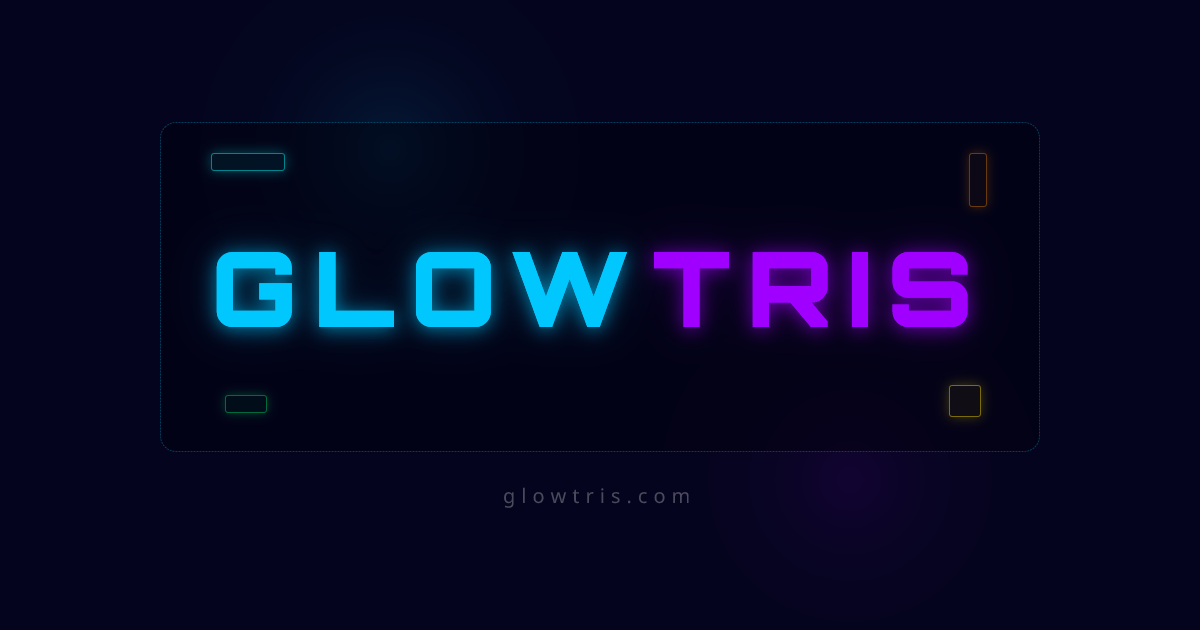
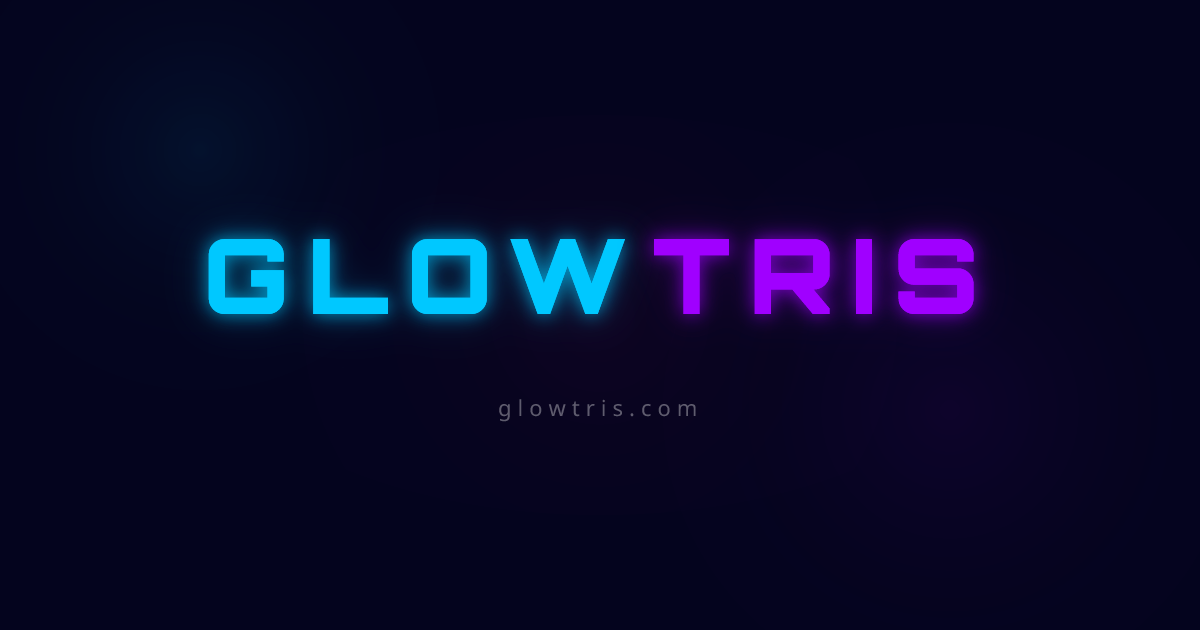
revert: restore OG to refined design (pre-404-style)

diff --git a/api/og.js b/api/og.js
@@ -18,77 +18,48 @@ export default async function handler() {
         background: '#04041e',
         width: '100%', height: '100%',
         display: 'flex',
+        alignItems: 'center',
+        justifyContent: 'center',
+        position: 'relative',
+        overflow: 'hidden',
+      },
+    },
+
+    // Subtle grid
+    h('div', {
+      style: {
+        position: 'absolute', inset: 0,
+        backgroundImage:
+          'linear-gradient(rgba(0,200,255,0.04) 1px, transparent 1px),' +
+          'linear-gradient(90deg, rgba(0,200,255,0.04) 1px, transparent 1px)',
+        backgroundSize: '60px 60px',
+      },
+    }),
+
+    // Nebula glows
+    h('div', { style: { position:'absolute', top:'-100px', left:'-50px', width:'500px', height:'500px', borderRadius:'50%', background:'radial-gradient(circle, rgba(0,200,255,0.07) 0%, transparent 70%)' } }),
+    h('div', { style: { position:'absolute', bottom:'-80px', right:'-50px', width:'600px', height:'600px', borderRadius:'50%', background:'radial-gradient(circle, rgba(160,0,255,0.06) 0%, transparent 70%)' } }),
+    h('div', { style: { position:'absolute', top:'115px', left:'200px', width:'800px', height:'400px', borderRadius:'50%', background:'radial-gradient(circle, rgba(255,0,128,0.04) 0%, transparent 70%)' } }),
+
+    // Content column
+    h('div', {
+      style: {
+        display: 'flex',
         flexDirection: 'column',
         alignItems: 'center',
         justifyContent: 'center',
-        position: 'relative',
-        overflow: 'hidden',
+        gap: 0,
       },
     },
 
-    // Full-page grid
-    h('div', {
-      style: {
-        position: 'absolute', inset: 0,
-        backgroundImage:
-          'linear-gradient(rgba(0,200,255,0.055) 1px, transparent 1px),' +
-          'linear-gradient(90deg, rgba(0,200,255,0.055) 1px, transparent 1px)',
-        backgroundSize: '28px 28px',
-      },
-    }),
-
-    // Ambient glow — cyan top-left
-    h('div', { style: { position:'absolute', top:'-60px', left:'180px', width:'420px', height:'420px', borderRadius:'50%', background:'radial-gradient(circle, rgba(0,200,255,0.11) 0%, transparent 65%)' } }),
-    // Ambient glow — purple bottom-right
-    h('div', { style: { position:'absolute', bottom:'-60px', right:'140px', width:'420px', height:'420px', borderRadius:'50%', background:'radial-gradient(circle, rgba(160,0,255,0.09) 0%, transparent 65%)' } }),
-
-    // Card
-    h('div', {
-      style: {
-        position: 'relative',
-        width: 880,
-        height: 330,
-        display: 'flex',
-        alignItems: 'center',
-        justifyContent: 'center',
-        border: '1px dashed rgba(0,200,255,0.3)',
-        borderRadius: 16,
-        background: 'rgba(0,0,12,0.45)',
-        overflow: 'hidden',
-        marginBottom: 30,
-      },
-    },
-
-    // Grid inside card
-    h('div', {
-      style: {
-        position: 'absolute', inset: 0,
-        backgroundImage:
-          'linear-gradient(rgba(255,255,255,0.035) 1px, transparent 1px),' +
-          'linear-gradient(90deg, rgba(255,255,255,0.035) 1px, transparent 1px)',
-        backgroundSize: '20px 20px',
-      },
-    }),
-
-    // I-piece (cyan) — top left
-    h('div', { style: { position:'absolute', top:30, left:50, width:74, height:18, borderRadius:3, background:'rgba(0,240,240,0.09)', border:'1px solid rgba(0,240,240,0.7)', boxShadow:'0 0 12px rgba(0,240,240,0.45)', opacity:0.75 } }),
-
-    // O-piece (yellow) — bottom right
-    h('div', { style: { position:'absolute', bottom:34, right:58, width:32, height:32, borderRadius:3, background:'rgba(240,210,0,0.08)', border:'1px solid rgba(240,210,0,0.7)', boxShadow:'0 0 12px rgba(240,210,0,0.4)', opacity:0.7 } }),
-
-    // S-piece (green) — bottom left
-    h('div', { style: { position:'absolute', bottom:38, left:64, width:42, height:18, borderRadius:3, background:'rgba(0,255,120,0.07)', border:'1px solid rgba(0,255,120,0.6)', boxShadow:'0 0 10px rgba(0,255,120,0.4)', opacity:0.65 } }),
-
-    // L-piece (orange) — top right
-    h('div', { style: { position:'absolute', top:30, right:52, width:18, height:54, borderRadius:3, background:'rgba(255,140,0,0.07)', border:'1px solid rgba(255,140,0,0.6)', boxShadow:'0 0 10px rgba(255,140,0,0.4)', opacity:0.65 } }),
-
-    // GLOWTRIS
+    // GLOWTRIS logo
     h('div', {
       style: {
         display: 'flex',
         flexDirection: 'row',
         alignItems: 'center',
         justifyContent: 'center',
+        marginBottom: 28,
       },
     },
     h('span', {
@@ -96,9 +67,9 @@ export default async function handler() {
         fontSize: 104,
         fontWeight: 900,
         fontFamily: 'Orbitron',
-        letterSpacing: '16px',
+        letterSpacing: '18px',
         color: '#00c8ff',
-        textShadow: '0 2px 18px rgba(0,200,255,0.65), 0 0 44px rgba(0,200,255,0.2)',
+        textShadow: '0 0 18px rgba(0,200,255,0.75), 0 0 40px rgba(0,200,255,0.25)',
       },
     }, 'GLOW'),
     h('span', {
@@ -106,24 +77,34 @@ export default async function handler() {
         fontSize: 104,
         fontWeight: 900,
         fontFamily: 'Orbitron',
-        letterSpacing: '16px',
+        letterSpacing: '18px',
         color: '#a000ff',
-        textShadow: '0 2px 18px rgba(160,0,255,0.65), 0 0 44px rgba(160,0,255,0.2)',
+        textShadow: '0 0 18px rgba(160,0,255,0.75), 0 0 40px rgba(160,0,255,0.25)',
       },
     }, 'TRIS'),
     ),
 
-    ), // end card
+    // Separator
+    h('div', {
+      style: {
+        width: 520,
+        height: 1,
+        background: 'linear-gradient(90deg, transparent, rgba(0,200,255,0.5), rgba(160,0,255,0.5), transparent)',
+        marginBottom: 24,
+      },
+    }),
 
     // URL
     h('div', {
       style: {
-        fontSize: 20,
+        fontSize: 22,
         fontFamily: 'monospace',
         letterSpacing: '6px',
-        color: 'rgba(255,255,255,0.28)',
+        color: 'rgba(255,255,255,0.35)',
       },
     }, 'glowtris.com'),
+
+    ),
 
     ),
     {
